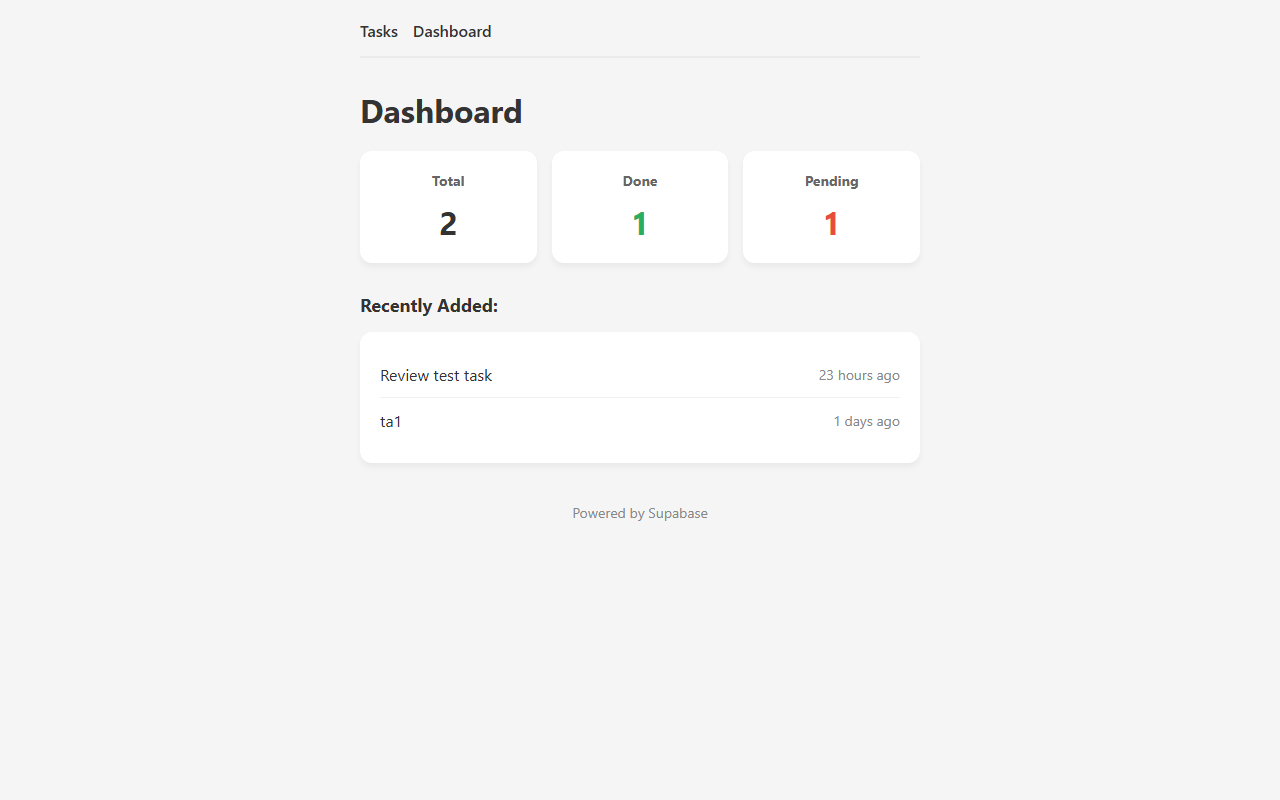
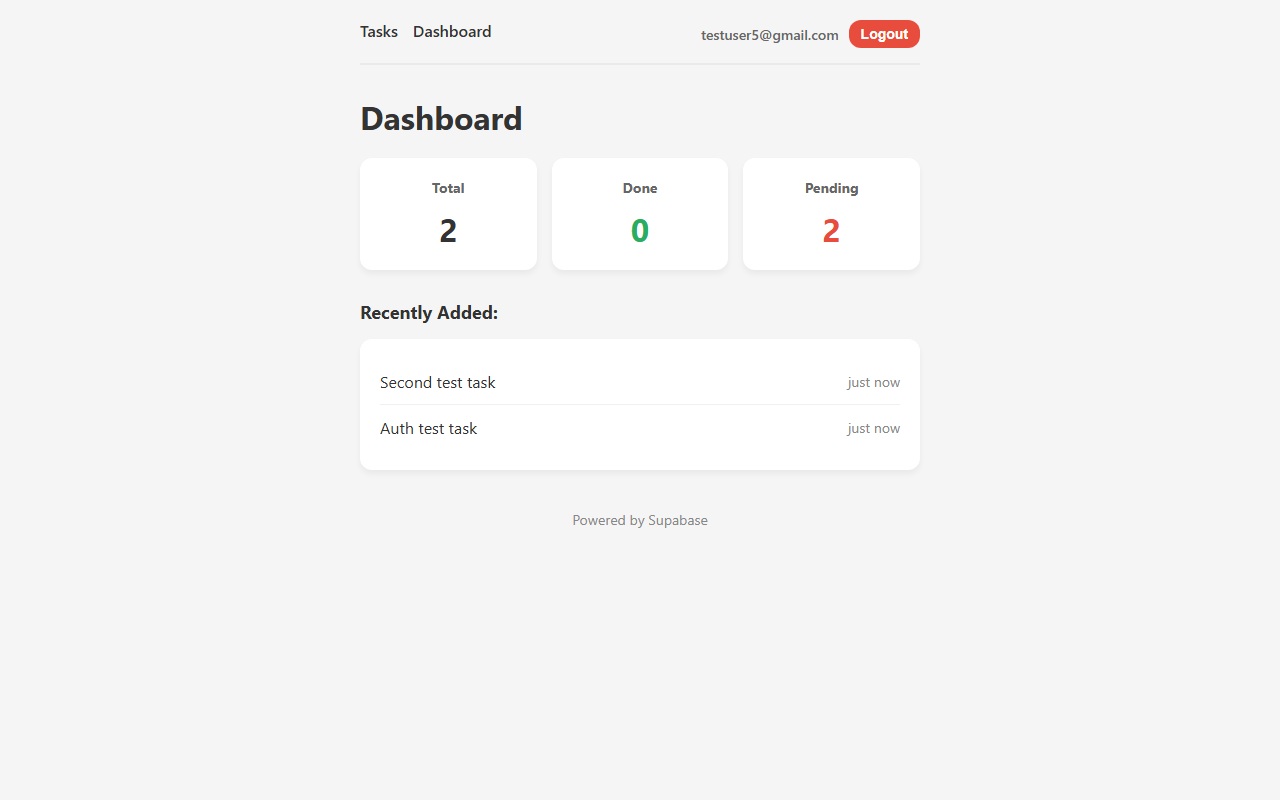
Fix .env loading for Flask debug reloader and add auth screenshots
load_dotenv() wasn't resolving .env path when Flask restarted via
debug reloader, causing secret_key to be None and crashing sessions.
Fixed with explicit path. Also added login/register page screenshots.

diff --git a/app.py b/app.py
@@ -5,10 +5,10 @@ from flask import Flask, request, redirect, url_for, render_template, session
 from dotenv import load_dotenv
 import httpx
 
-load_dotenv()
+load_dotenv(os.path.join(os.path.dirname(__file__), '.env'))
 
 app = Flask(__name__)
-app.secret_key = os.getenv("FLASK_SECRET_KEY")
+app.secret_key = os.getenv("FLASK_SECRET_KEY", "fallback-secret-key-change-me")
 SUPABASE_URL = os.getenv("SUPABASE_URL")
 SUPABASE_KEY = os.getenv("SUPABASE_KEY")
 REST_URL = f"{SUPABASE_URL}/rest/v1"
